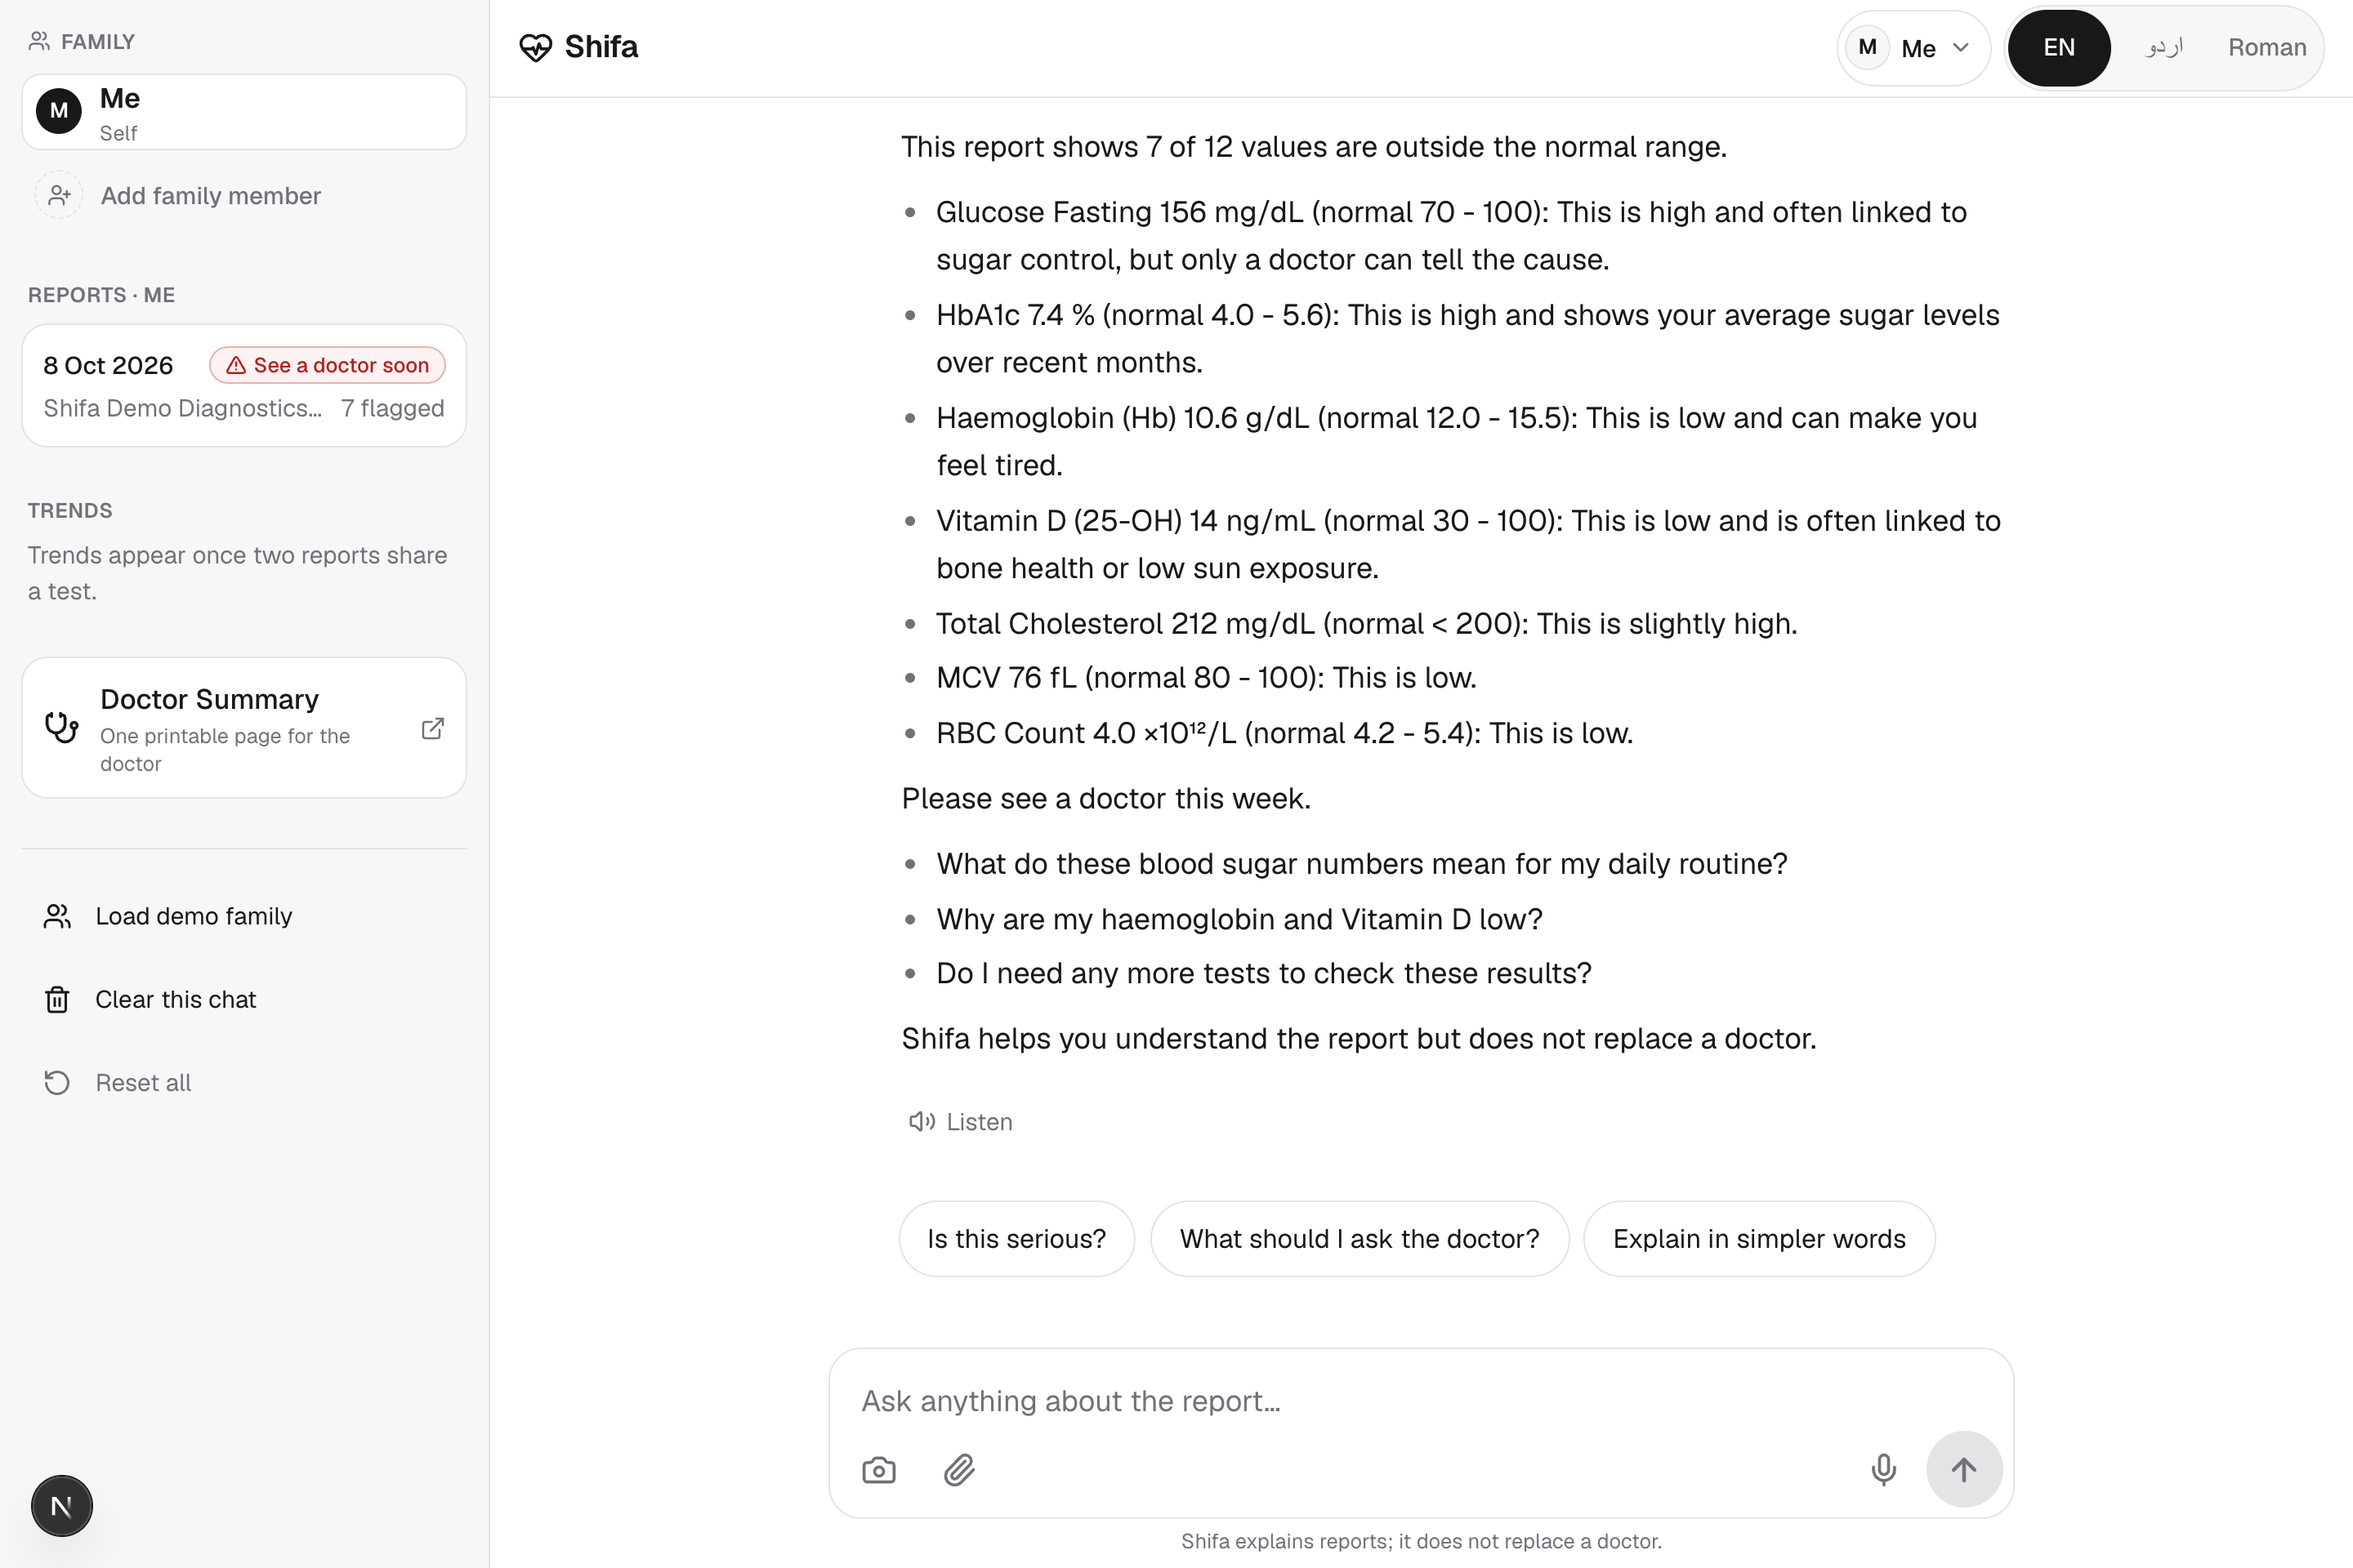
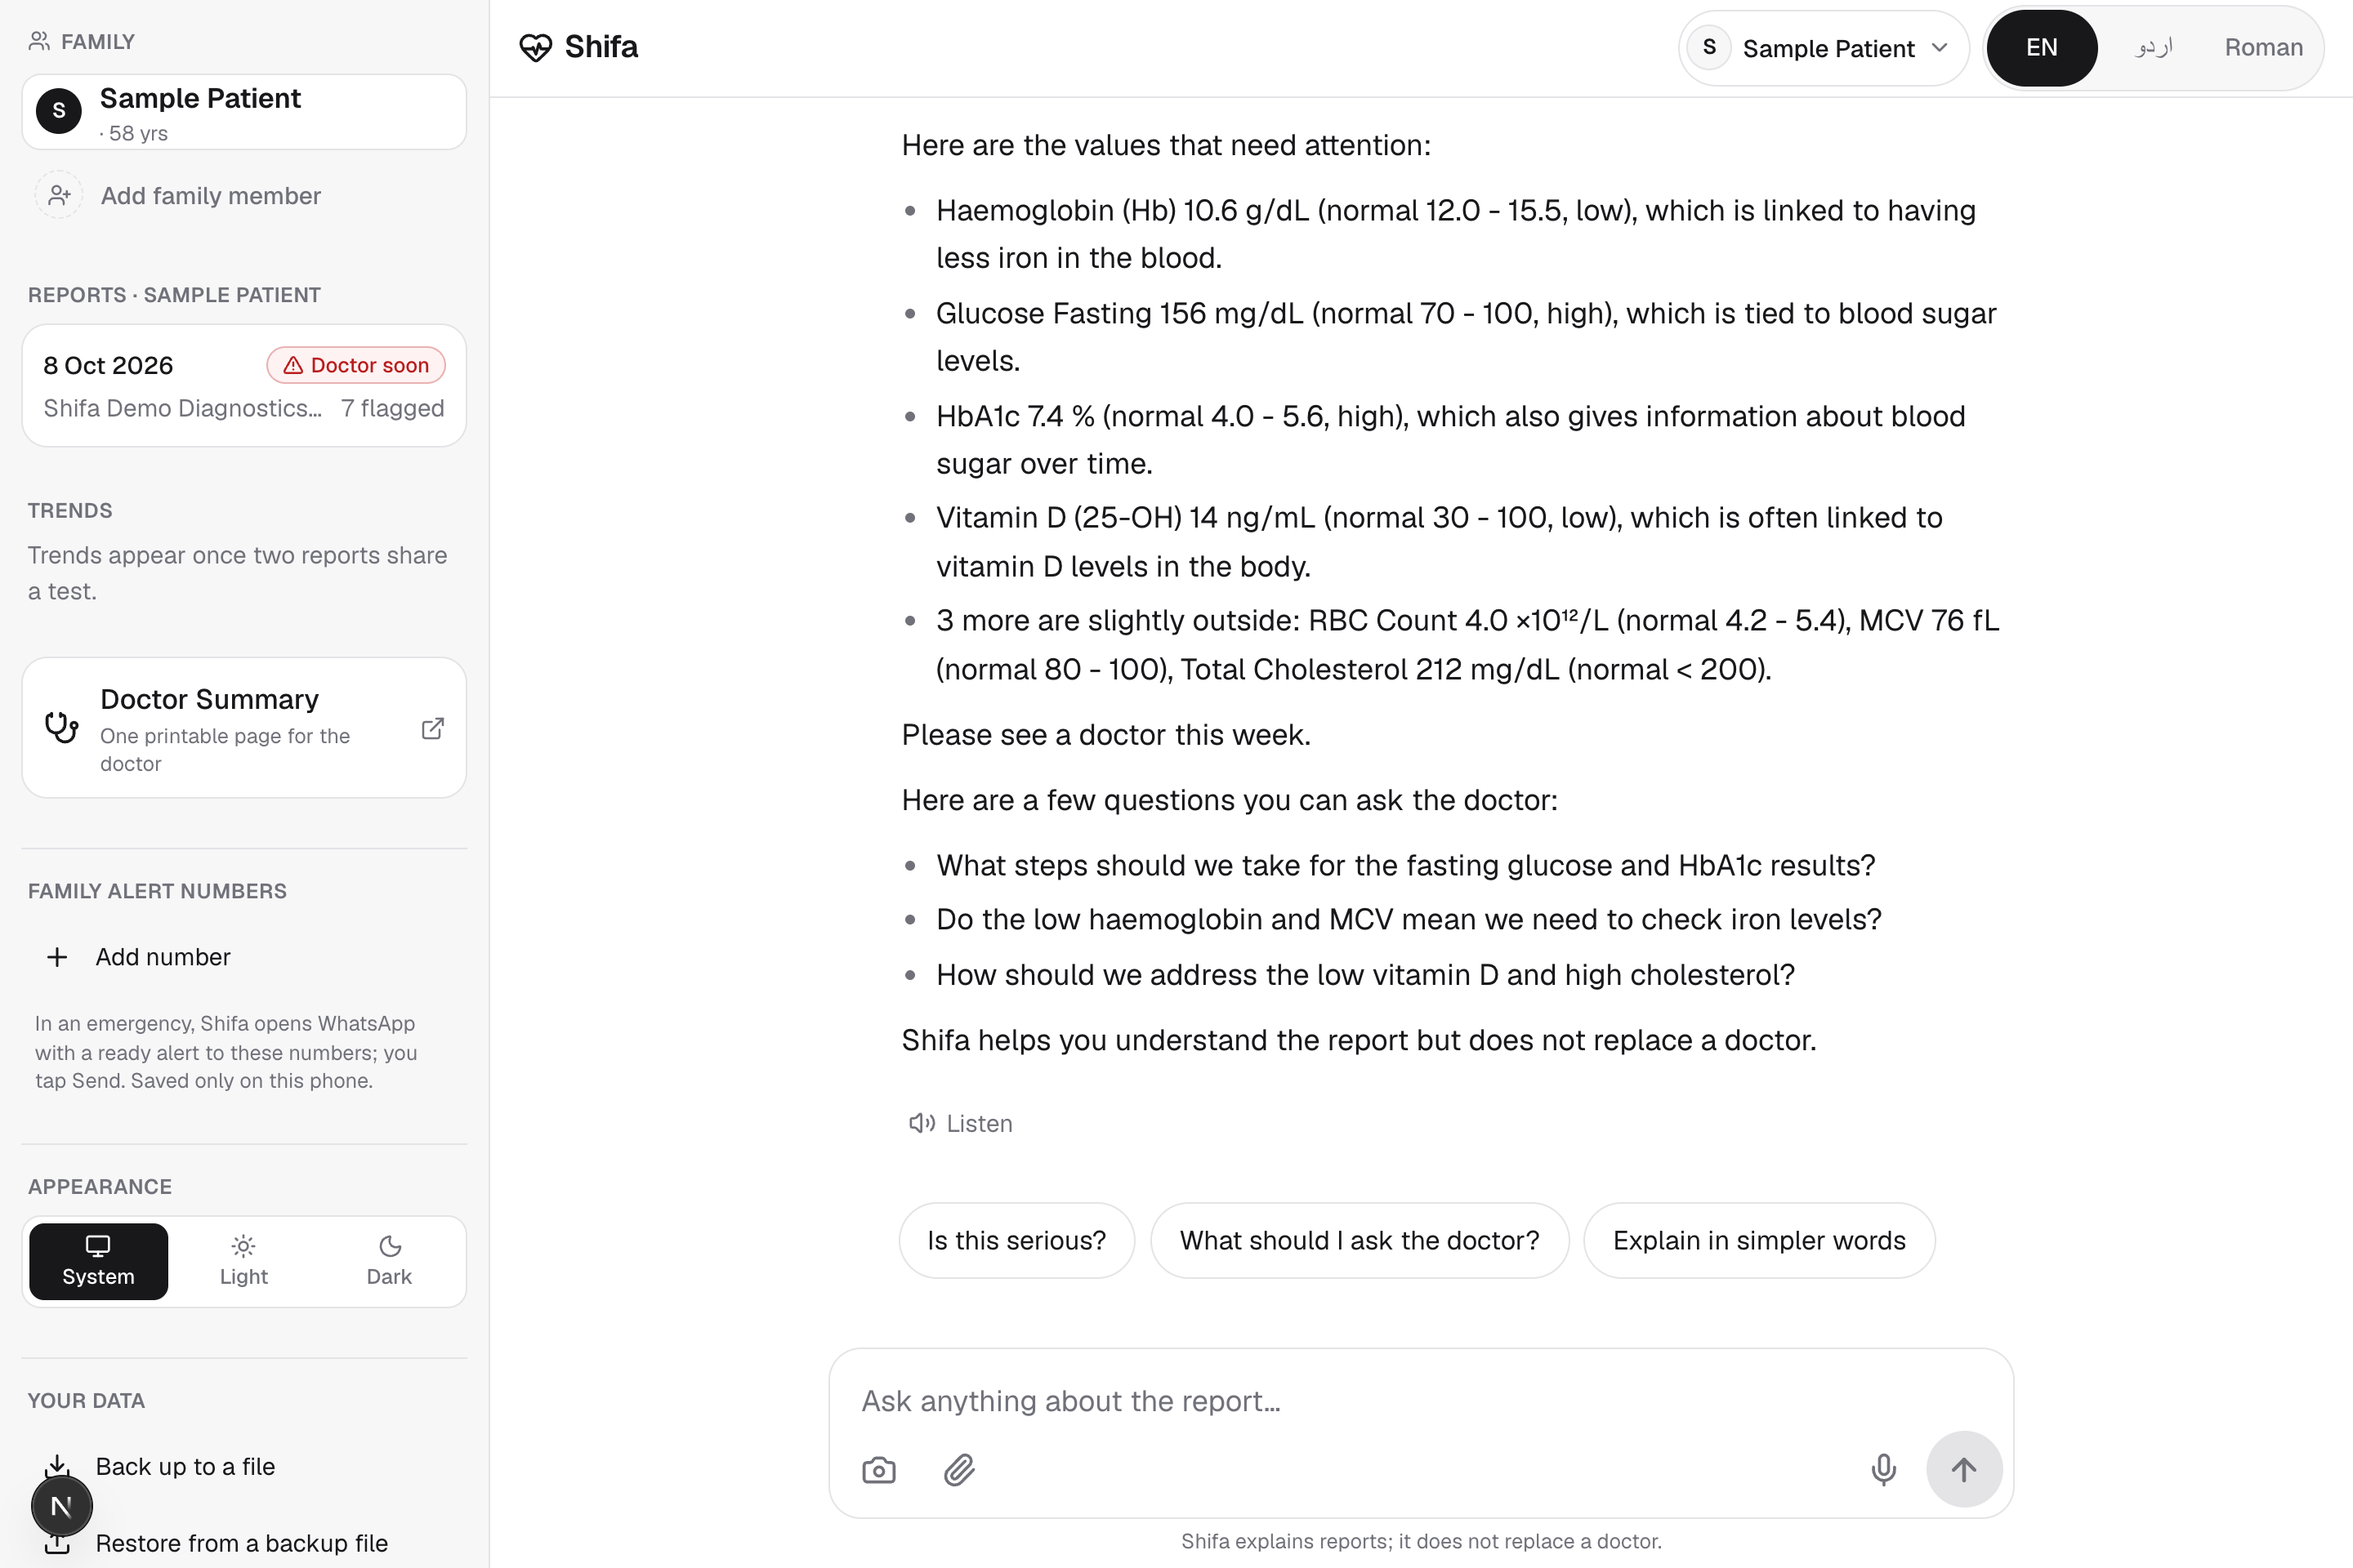
docs: README and proposal for identity check, WhatsApp alerts, dark mode and lab tuning
- live link, new screenshots (identity check, dark mode, WhatsApp alert)
- screens.mjs now also checks the identity flow, dark mode before first paint and the WhatsApp alert link
- longer browser-test timeouts for slow networks

diff --git a/README.md b/README.md
@@ -7,11 +7,15 @@
 - **explains it in English, Urdu or Roman Urdu**, then answers your follow-up questions
 
 > Built for the AIEF 4th International AI Championship, category **AI in Healthcare**.
-> Live demo: TODO · Video (2 min): TODO
+> Live demo: https://shifa-silk.vercel.app · Video (2 min): TODO
 
 | Report card (checked by code) | Emergency detection | Urdu (mobile) |
 |---|---|---|
 | ![Report card](docs/screenshots/report-card.png) | ![Emergency banner](docs/screenshots/emergency.png) | ![Urdu answer](docs/screenshots/mobile-urdu.png) |
+
+| Wrong person? Asked before adding | Dark mode | WhatsApp alert (code-decided emergency) |
+|---|---|---|
+| ![Identity check](docs/screenshots/identity-check.png) | ![Dark mode](docs/screenshots/dark-report-card.png) | ![WhatsApp alert](docs/screenshots/dark-emergency-whatsapp.png) |
 
 ## Why it is not "just a chatbot"
 
@@ -35,6 +39,12 @@ The AI is told the flags were computed by code and must never override them.
 - **Urgency levels:** Emergency now · See a doctor this week · Mention at next visit · Normal.
 - **Follow-up chips:** "Kya ye serious hai?", "Doctor se kya poochein?", "Compare with last report".
 - **Family profiles:** Ammi, Abbu, Me. Each person keeps their own reports and chat.
+- **Patient identity check:** code compares the name, age and sex printed on the report with the chosen family member.
+  - If they don't match, **nothing is added** until you say whose report it is, so a scary result never lands on the wrong person.
+  - Every report card shows "On report: name · age · sex" with a "Not Ammi?" link to move it.
+- **One-tap WhatsApp alert:** only for emergencies decided by **code** (a danger value in a report, or emergency words typed in chat).
+  - Shifa opens WhatsApp with a ready, code-written alert to a saved family number. You tap Send.
+- **Dark mode:** System / Light / Dark, with no white flash on load. The Doctor Summary always prints light.
 - **Trends:** the same test across reports, charted against its normal band.
 - **Doctor Summary:** a printable one-page summary with questions to ask.
 - **Voice in and out** (best effort, using the browser's built-in speech).
@@ -69,10 +79,11 @@ Without a key, the app still runs in offline demo mode: "Try a sample report" an
 | Command | What it does |
 |---|---|
 | `npm run selftest` | Rule-engine and safety tests: flags, danger values, urgency, trends, emergency phrases, upload checks |
-| `npm run eval` | Reading-accuracy evaluation on hand-labelled real reports (needs `npm run dev` running) |
+| `npm run eval` | Reading-accuracy evaluation on hand-labelled real reports, with a per-lab table (needs `npm run dev` running) |
+| `npm run eval:draft` | Writes the AI's reading of new reports as draft labels for a person to check (see `eval/README.md`) |
 | `npm run models` | Lists the Gemini models your key can use |
 | `npx tsx scripts/smoke-api.ts` | Live end-to-end API check: sample report → checks → streamed explanation, follow-up, emergency, safety refusal (needs `npm run dev`) |
-| `node scripts/screens.mjs` | Drives the app in Chrome, checks for page errors, and refreshes `docs/screenshots/` (needs `npm run dev`) |
+| `node scripts/screens.mjs` | Drives the app in Chrome: the main flows, identity check, dark mode and WhatsApp alert. Checks for page errors and refreshes `docs/screenshots/` (needs `npm run dev`) |
 | `npm run build` | Production build |
 
 ## Architecture
@@ -99,7 +110,9 @@ emergency detector (client) ◀── text stream ──  emergency sentinel, of
 - **Medicines:** scan a strip, box or prescription. The reading is matched against a verified database of Pakistani brands.
 - **Medicine safety checks:** catch the same ingredient twice (Panadol + Panadol Extra) and doses over the daily maximum.
 - **Dose schedules:** turn "1+0+1 × 5 din" into reminders (Calendar / WhatsApp).
-- **Clinical review:** a clinician reviews the danger-value list and the explanation tone.
+- **Clinical review:** a clinician reviews the danger-value list, the standard fallback ranges and the explanation tone.
+- **Automatic WhatsApp alerts:** through the WhatsApp Business API. This needs Meta business verification and approved message templates. Today's alerts are one tap.
+- **More labs:** keep tuning on Chughtai, Minhaj and Shaukat Khanum reports with `npm run eval`.
 
 ## Disclaimer
 Shifa explains lab reports to help families understand them. It does not diagnose, prescribe, or replace a doctor. In an emergency, call **1122**.

diff --git a/docs/proposal.md b/docs/proposal.md
@@ -3,7 +3,7 @@
 **Category:** AI in Healthcare
 **Team:** TODO: full names of all 3 members, university, semester
 **Keywords:** Medical Document AI · Urdu NLP · Lab Report Interpretation · Patient Safety · Health Literacy
-**Prototype:** [GitHub repo](TODO-link) · [Live demo](TODO-link) · [2-minute video](TODO-link)
+**Prototype:** [GitHub repo](TODO-link) · [Live demo](https://shifa-silk.vercel.app) · [2-minute video](TODO-link)
 
 ---
 
@@ -65,6 +65,9 @@ Generic chatbots are not the answer. They can misread numbers, invent values, or
 | Report scanning (photo or PDF) in chat | Transcribes tests, values, units, ranges | Flags values, checks danger values, sets urgency, builds the report card |
 | Explanations and follow-up chat | Explains in English / Urdu / Roman Urdu, grounded in the person's own reports | Supplies the verified flags, which the AI can't override |
 | Emergency detection | Flags emergencies in its replies | Keyword and fuzzy matching in three languages triggers the 1122 banner |
+| Patient identity check | Reads the patient's name, age and sex from the report | Compares them with the chosen family member. On a mismatch, nothing is added until the user confirms whose report it is |
+| WhatsApp alert | – | For code-decided emergencies only (a danger value, or emergency words): one tap opens WhatsApp with a code-written alert to a saved family number |
+| Dark mode | – | System / Light / Dark themes, readable in all three languages |
 | Trends across reports | – | Charts each test over time against its normal band |
 | Family profiles | – | Separate history per family member, stored only on the device |
 | Doctor Summary | – | Printable one-page summary with questions to ask |
@@ -74,6 +77,7 @@ Generic chatbots are not the answer. They can misread numbers, invent values, or
 - Scan a medicine strip, box or prescription; the reading is matched against a verified database of Pakistani brands.
 - Safety checks: the same active ingredient twice (e.g. Panadol + Panadol Extra), and daily-dose limits.
 - Dose schedules from Pakistani notation like "1+0+1 × 5 din", with calendar and WhatsApp reminders.
+- Automatic WhatsApp alerts through the WhatsApp Business API, once Meta verification and message templates are approved.
 
 ## 6. Implementation Plan & Timeline
 
@@ -105,7 +109,8 @@ Generic chatbots are not the answer. They can misread numbers, invent values, or
 
 | Risk | Mitigation |
 |---|---|
-| The AI misreads a value | Structured extraction; values shown next to the printed range so users can check; measured accuracy; easy re-scan |
+| The AI misreads a value | Structured extraction; values shown next to the printed range so users can check; accuracy measured per lab (Chughtai, Minhaj, Shaukat Khanum); easy re-scan |
+| A report is added to the wrong family member | Code checks the name, age and sex on the report and asks before adding anything that doesn't match |
 | The AI gives unsafe medical advice | It never diagnoses or prescribes. Flags and urgency come from code, and the AI is instructed it can't override them. A disclaimer is always visible |
 | A dangerous result is missed | Danger values are checked by code, independently of the AI, and covered by automated tests |
 | Poor photos or unusual lab formats | PDF upload, retake guidance, and testing across several Pakistani labs |
